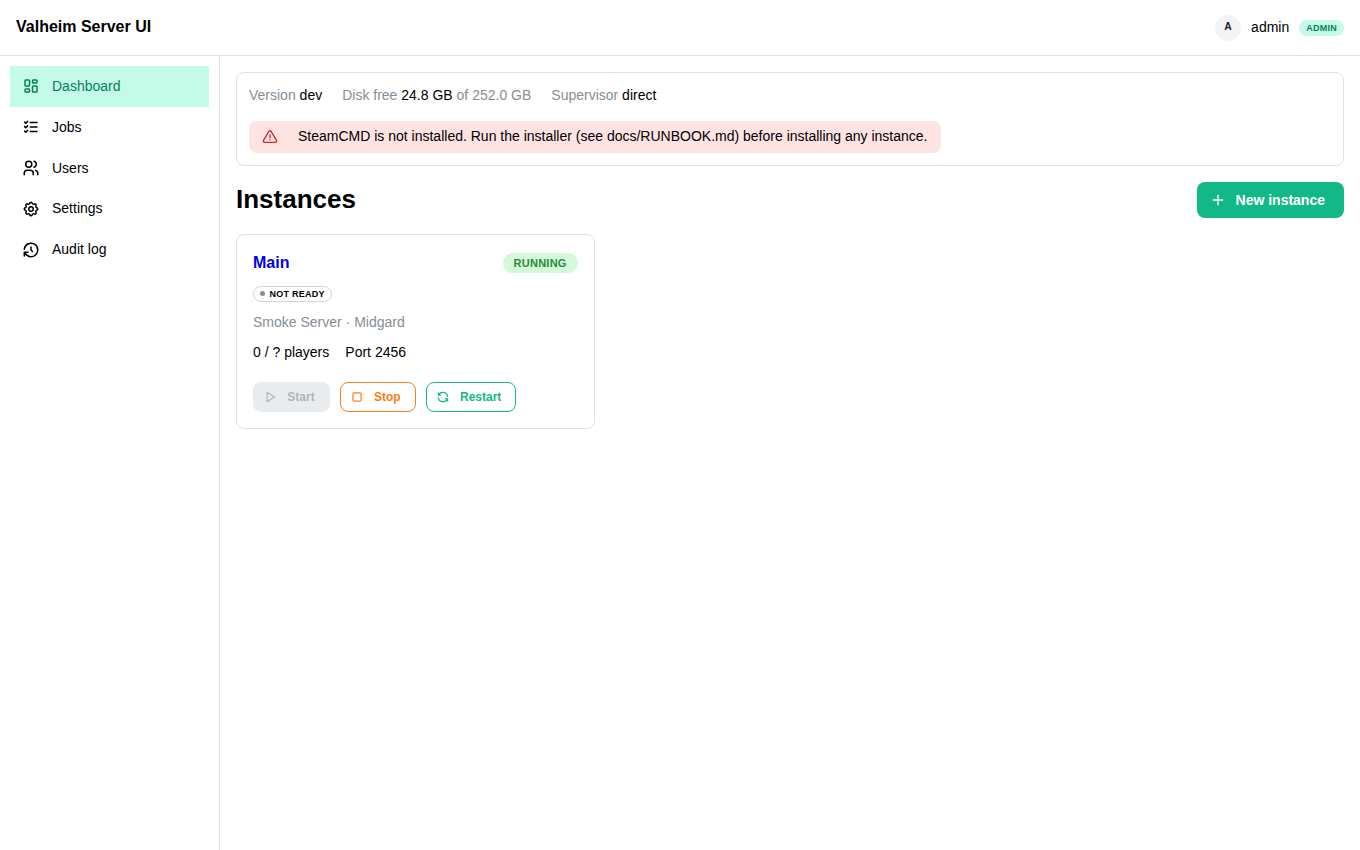
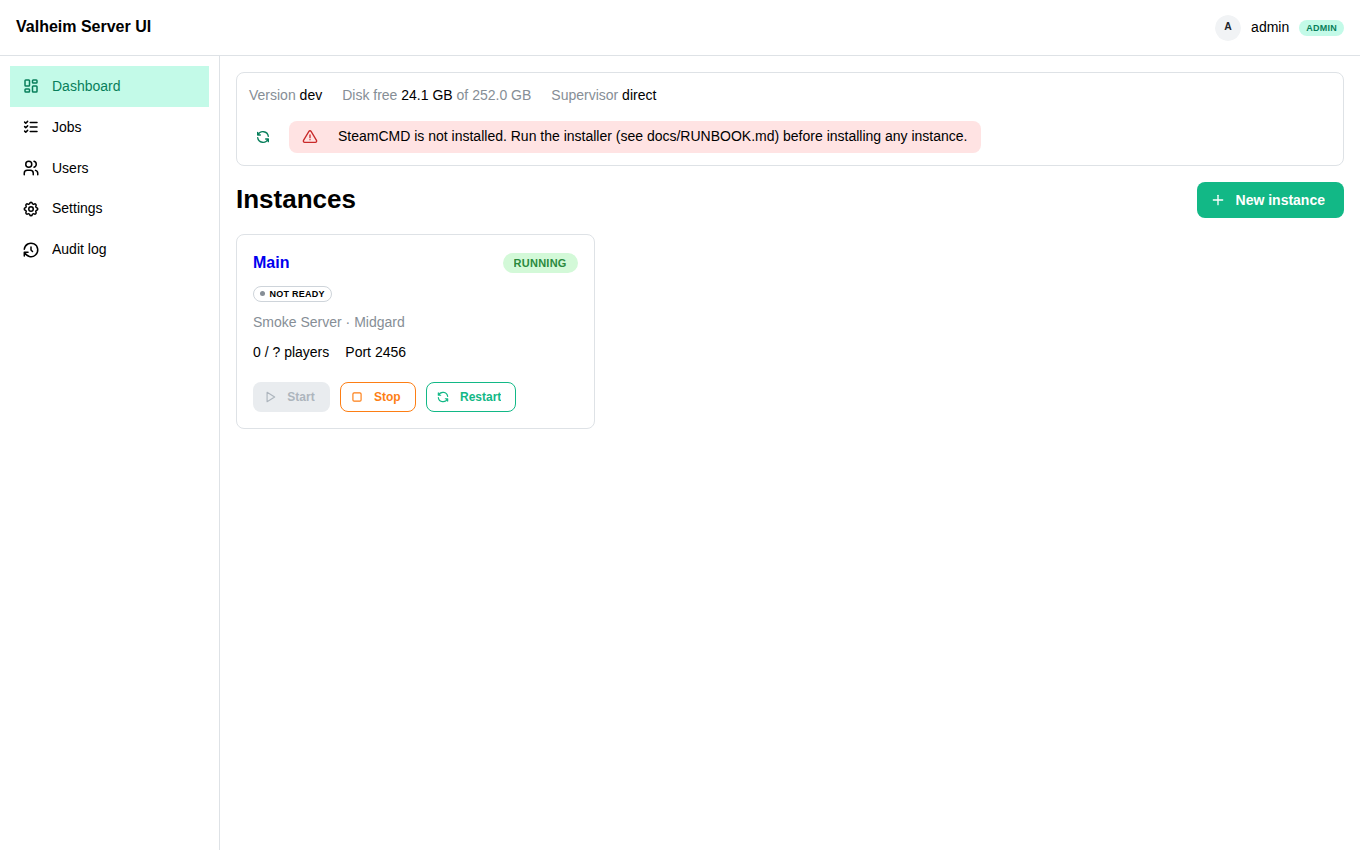
docs: self-upgrade in README, refreshed dashboard and settings screenshots
Claude-Session: https://claude.ai/code/session_011eCgiTmiC1w6PZ5z9orikY

Changed region(s): [[0.1853, 0.1224, 0.7412, 0.1835]]

diff --git a/README.md b/README.md
@@ -31,6 +31,7 @@ an audit trail, without turning your server box into a Docker puzzle.
 | **Mods** | Install BepInEx, browse and install from Thunderstore with dependency resolution, upload zips or DLLs, enable/disable/update/uninstall, and edit plugin `.cfg` files with typed inputs. |
 | **Schedules** | Cron-based restarts, backups and Steam update checks with a "only when nobody is online" switch. |
 | **Updates** | Detects new Valheim builds on Steam and updates with an optional pre-update backup. |
+| **Self-upgrade** | The manager polls GitHub releases, shows what's new, and upgrades itself from the UI with a verified download, atomic swap and rollback. Game servers keep running while it restarts. |
 | **Users & SSO** | First-run wizard creates the admin. Local accounts plus one OIDC provider (Authelia, Keycloak, Authentik, Google…) with group-to-role mapping. Roles: viewer, operator, admin. |
 | **Operations** | Job queue with live logs for every long operation, audit log of every change, disk usage and SteamCMD health on the dashboard. |
 | **Security** | The manager runs unprivileged; its only path to root is a 15-line sudo wrapper that validates its arguments. Argon2id passwords, hardened session cookies, CSRF guard, no default credentials. |
@@ -135,6 +136,14 @@ is printed in the job log. Plugin `.cfg` files show up below as typed forms.
 **Keep the server up to date.** The overview shows when Steam has a newer build.
 "Update now" stops, backs up, updates and restarts. For hands-off operation add a
 schedule of kind *update* with "only when empty" on.
+
+**Upgrade Valheim Server UI itself.** The dashboard and Settings → Application
+show when a new release is out, with its release notes. Press Upgrade: the
+manager downloads the release, verifies its checksum, sanity-runs the new
+binary, swaps it in atomically and restarts within seconds; the page reconnects
+on the new version. Your game servers are separate systemd units and keep
+running throughout. Turn on *auto-upgrade* to have this happen automatically
+when nobody is online. Rollback on the host: `valheim-ui self-upgrade --rollback`.
 
 **Schedule restarts.** Instance → Schedules → New schedule, kind *restart*, pick a
 preset such as "Daily at 04:00". Valheim has no way to warn players, so keep
